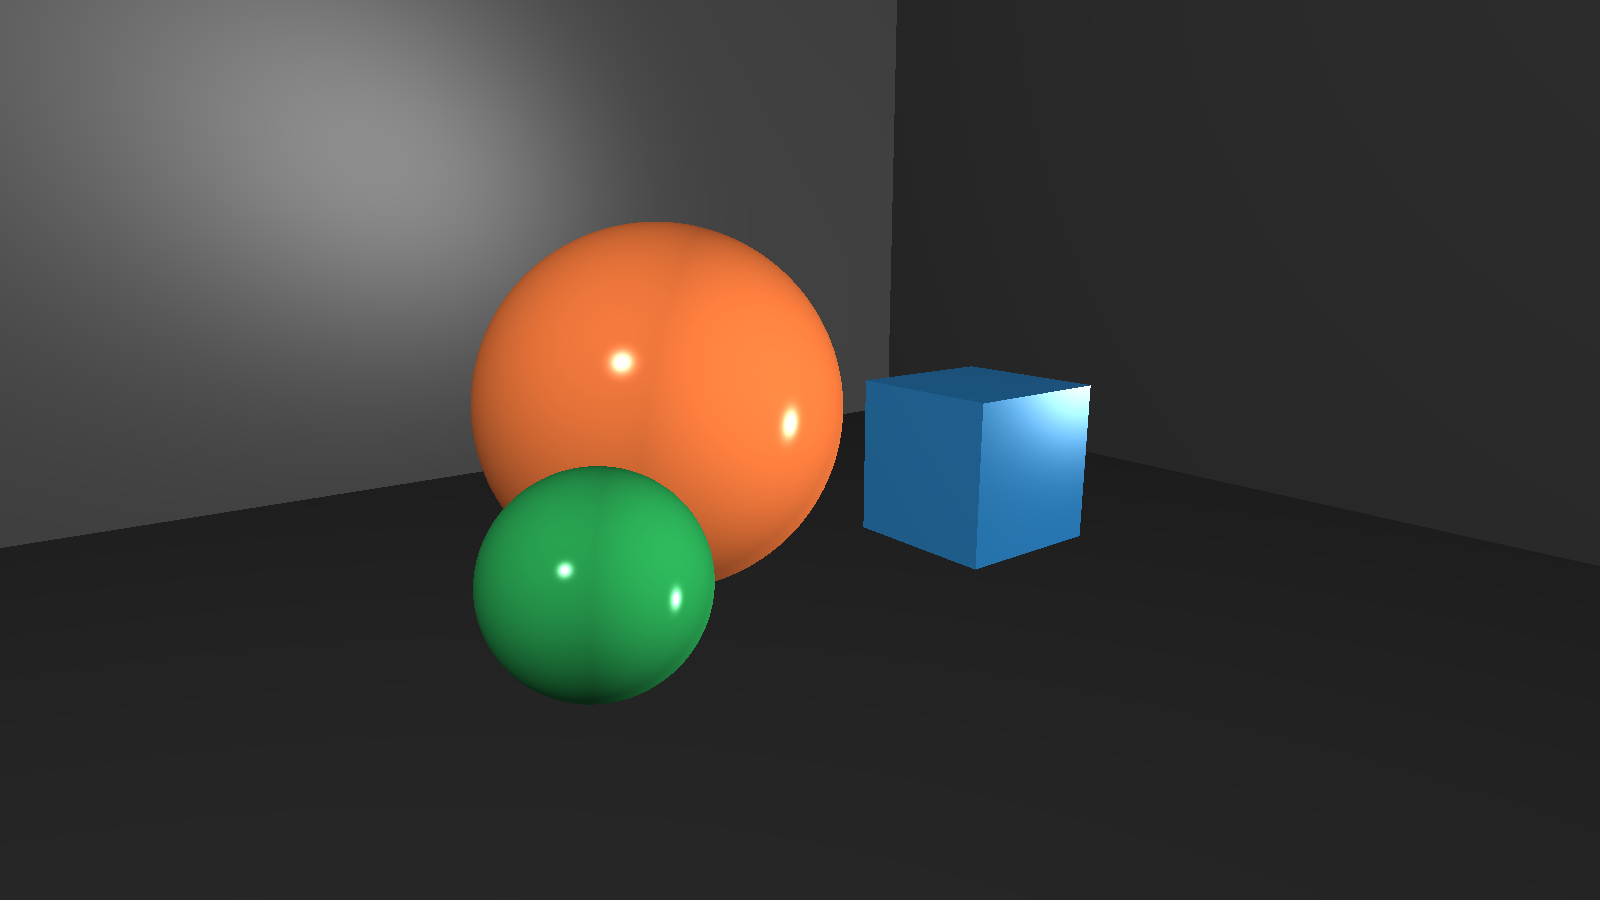
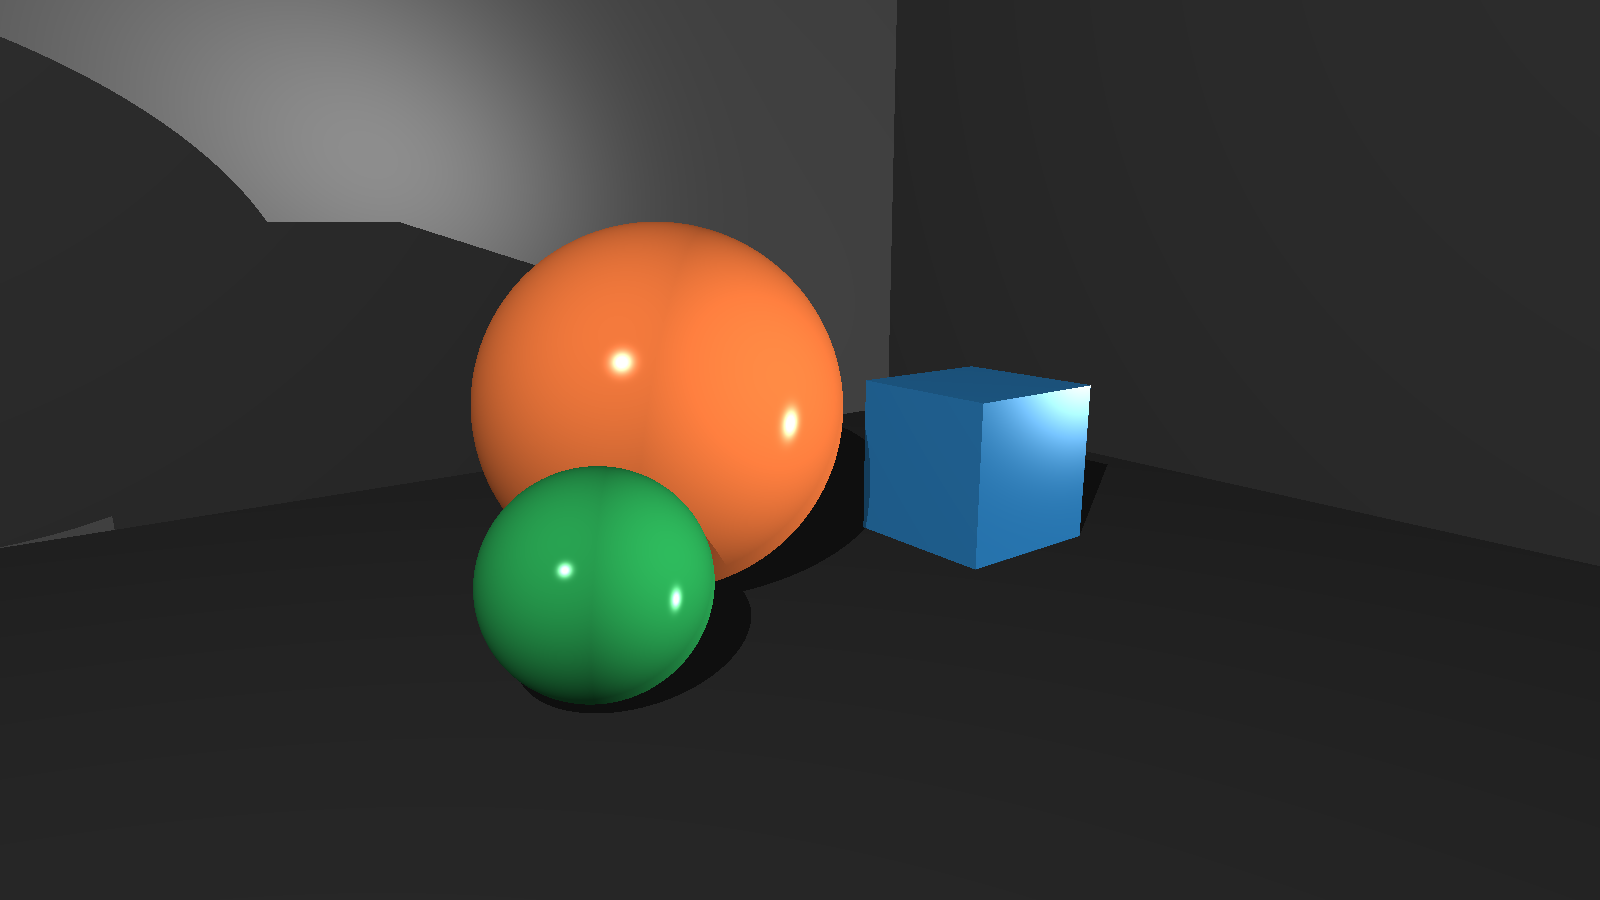
add shadow

Changed region(s): [[0.0, 0.0311, 0.3438, 0.5911], [0.5312, 0.4978, 0.5625, 0.56]]

diff --git a/src/world.rs b/src/world.rs
@@ -42,11 +42,40 @@ impl World {
             if let Some(front_most) = front_most {
                 let mut acc_color = Color::BLACK;
                 for light in &self.point_lights {
-                    acc_color += point_lighting(front_most.material, light, front_most.pos, eyev, front_most.normalv);
+                    let is_shadowed = self.is_shadowed(front_most.pos, light);
+                    acc_color += point_lighting(
+                        front_most.material,
+                        light,
+                        front_most.pos,
+                        eyev,
+                        front_most.normalv,
+                        is_shadowed,
+                    );
                 }
                 acc_color
             } else {
                 Color::BLACK
+            }
+        }
+    }
+
+    pub fn is_shadowed(&self, pos: Vec4, light: &PointLight) -> bool {
+        let obj_to_light = light.pos - pos;
+        let obj_to_light_v = obj_to_light.normalize();
+        let ray = Ray::new(pos, obj_to_light_v);
+        let intersections = self.intersect(&ray);
+
+        if intersections.len() == 0 {
+            false
+        } else {
+            if let Some(_) = intersections
+                .iter()
+                .filter(|i| i.t > 0.01 && i.t <= obj_to_light.mag() && i.normalv.dot(obj_to_light_v) > 0.0)
+                .next()
+            {
+                true
+            } else {
+                false
             }
         }
     }
@@ -113,5 +142,14 @@ mod tests {
         let ray = Ray::new(point(0.0, 0.0, -5.0), vector(0.0, 0.0, 1.0));
         let color = world.shade(&ray, vector(0.0, 0.0, 1.0));
         assert_almost_eq_color(color, Color::new(0.46066123, 0.11516531, 0.34549594));
+    }
+
+    #[test]
+    fn is_shadowed() {
+        let world = World::default();
+        let light = &world.point_lights[0]; // -10, 10, -10,
+        assert_eq!(world.is_shadowed(point(10.0, -10.0, 10.0), light), true);
+        assert_eq!(world.is_shadowed(point(-20.0, 20.0, -20.0), light), false);
+        assert_eq!(world.is_shadowed(point(-2.0, 2.0, -2.0), light), false);
     }
 }

diff --git a/src/point_light.rs b/src/point_light.rs
@@ -11,7 +11,18 @@ impl PointLight {
     }
 }
 
-pub fn point_lighting(material: &Material, light: &PointLight, position: Vec4, eyev: Vec4, normalv: Vec4) -> Color {
+pub fn point_lighting(
+    material: &Material,
+    light: &PointLight,
+    position: Vec4,
+    eyev: Vec4,
+    normalv: Vec4,
+    is_shadowed: bool,
+) -> Color {
+    if is_shadowed {
+        return material.ambient * material.color;
+    }
+
     let effective_color = material.color * light.intensity;
     let lightv = (light.pos - position).normalize();
     let ambient = effective_color * material.ambient;
@@ -50,8 +61,19 @@ mod tests {
         let position = point(0.0, 0.0, 0.0);
         let light = PointLight::new(point(0.0, 0.0, -10.0), Color::WHITE);
         let material = Material::default();
-        let result = point_lighting(&material, &light, position, eyev, normalv);
+        let result = point_lighting(&material, &light, position, eyev, normalv, false);
         assert_almost_eq_color(result, Color::new(1.9, 1.9, 1.9));
+    }
+
+    #[test]
+    fn lighting_in_shadow() {
+        let eyev = vector(0.0, 0.0, 1.0);
+        let normalv = vector(0.0, 0.0, -1.0);
+        let position = point(0.0, 0.0, 0.0);
+        let light = PointLight::new(point(0.0, 0.0, -10.0), Color::WHITE);
+        let material = Material::default();
+        let result = point_lighting(&material, &light, position, eyev, normalv, true);
+        assert_almost_eq_color(result, Color::new(0.1, 0.1, 0.1));
     }
 
     #[test]
@@ -61,7 +83,7 @@ mod tests {
         let position = point(0.0, 0.0, 0.0);
         let light = PointLight::new(point(0.0, 0.0, -10.0), Color::WHITE);
         let material = Material::default();
-        let result = point_lighting(&material, &light, position, eyev, normalv);
+        let result = point_lighting(&material, &light, position, eyev, normalv, false);
         assert_almost_eq_color(result, Color::new(1.0, 1.0, 1.0));
     }
 }
